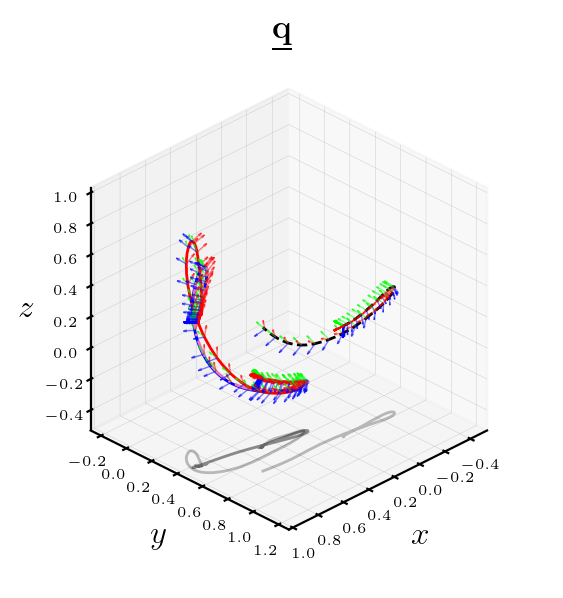
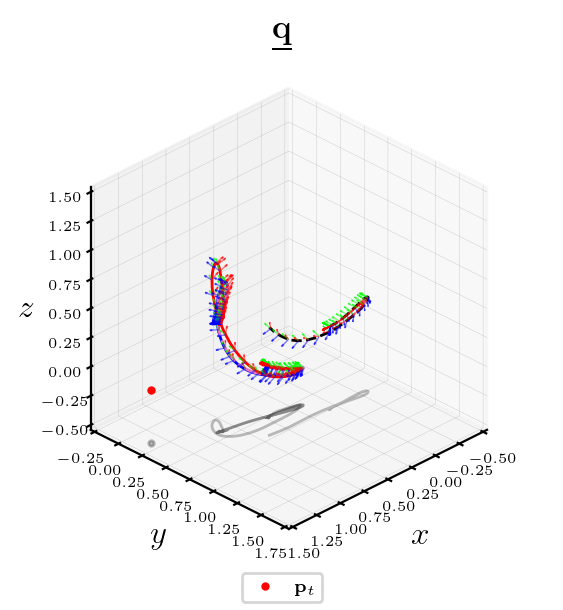
Update baxter related files

diff --git a/src/custom_arm/custom_ur5/src/baxter_throw_data.py b/src/custom_arm/custom_ur5/src/baxter_throw_data.py
@@ -32,7 +32,7 @@ def main():
     data = np.load(file_path + file_name)
     print(data.files)
 
-    p_t = Quaternion(vector=data['target'])
+    p_target = Quaternion(vector=data['target'])
     tau = data['params'][-1]
     t_d = data['td']
     dqg_d = data['goal']
@@ -43,7 +43,7 @@ def main():
     dq_t = data['dqt']
     dq_r = data['dqtrue']
 
-    print(p_t)
+    print(p_target)
     print(data['params'])
 
     fig = plt.figure(figsize=(3, 2.5), layout='tight')
@@ -105,15 +105,17 @@ def main():
     ax_3d.plot(p_t[:, 0], p_t[:, 1], 0*p_t[:, 2] - .5, 'k', linewidth=1, alpha=0.25)
     ax_3d.plot(p_r[:, 0], p_r[:, 1], p_r[:, 2], 'r', linewidth=1)
     ax_3d.plot(p_r[:, 0], p_r[:, 1], 0*p_r[:, 2] - .5, 'k', linewidth=1, alpha=0.25)
+    ax_3d.plot(p_target.x, p_target.y, p_target.z, 'or', markersize=2, label=r'$\mathbf{p}_t$')
+    ax_3d.plot(p_target.x, p_target.y, 0*p_target.z - .5, 'ok', alpha=0.25, markersize=2)
     draw_axes(ax_3d, dq_d_[::10], .075)
     draw_axes(ax_3d, dq_f_[::20], .075)
     draw_axes(ax_3d, dq_t_[::20], .075)
     draw_axes(ax_3d, dq_r_[::20], .075)
 
     ax_3d.set_proj_type('ortho')
-    ax_3d.set_xlim([-.5, 1])
-    ax_3d.set_ylim([-.25, 1.25])
-    ax_3d.set_zlim([-.5, 1])
+    ax_3d.set_xlim([-.5, 1.50])
+    ax_3d.set_ylim([-.25, 1.75])
+    ax_3d.set_zlim([-.5, 1.50])
     ax_3d.set_xlabel(r'$x$', fontsize=12)
     ax_3d.set_ylabel(r'$y$', fontsize=12)
     ax_3d.set_zlabel(r'$z$', fontsize=12)
@@ -126,10 +128,11 @@ def main():
     ax_3d.tick_params(axis='both', which='major', labelsize=5, pad=-2, grid_alpha=1)
     ax_3d.view_init(elev=30, azim=45)
     ax_3d.set_box_aspect((1, 1, 1), zoom=.90)
+    fig_3d.legend(loc="lower center", fontsize=6)
 
     plt.show()
 
-    # fig_3d.savefig("./src/figures/figure_baxterdemo3d.png", dpi=200, bbox_inches="tight")
+    fig_3d.savefig("./src/figures/figure_baxterdemo3d.png", dpi=200, bbox_inches="tight")
 
 
 if __name__ == '__main__':

diff --git a/src/custom_arm/custom_ur5/src/sandbox.py b/src/custom_arm/custom_ur5/src/sandbox.py
@@ -24,7 +24,7 @@ def main():
 
     # Set Cartesian target
     p_r = Quaternion(axis=[0, 0, 1], angle=-1.00 * np.pi)
-    p_t = Quaternion(vector=[1.00, 0.00, 0.02])
+    p_t = Quaternion(vector=[0.60, 0.60, 0.02])
     p_t = p_r.rotate(p_t)
 
     # DMP Model
